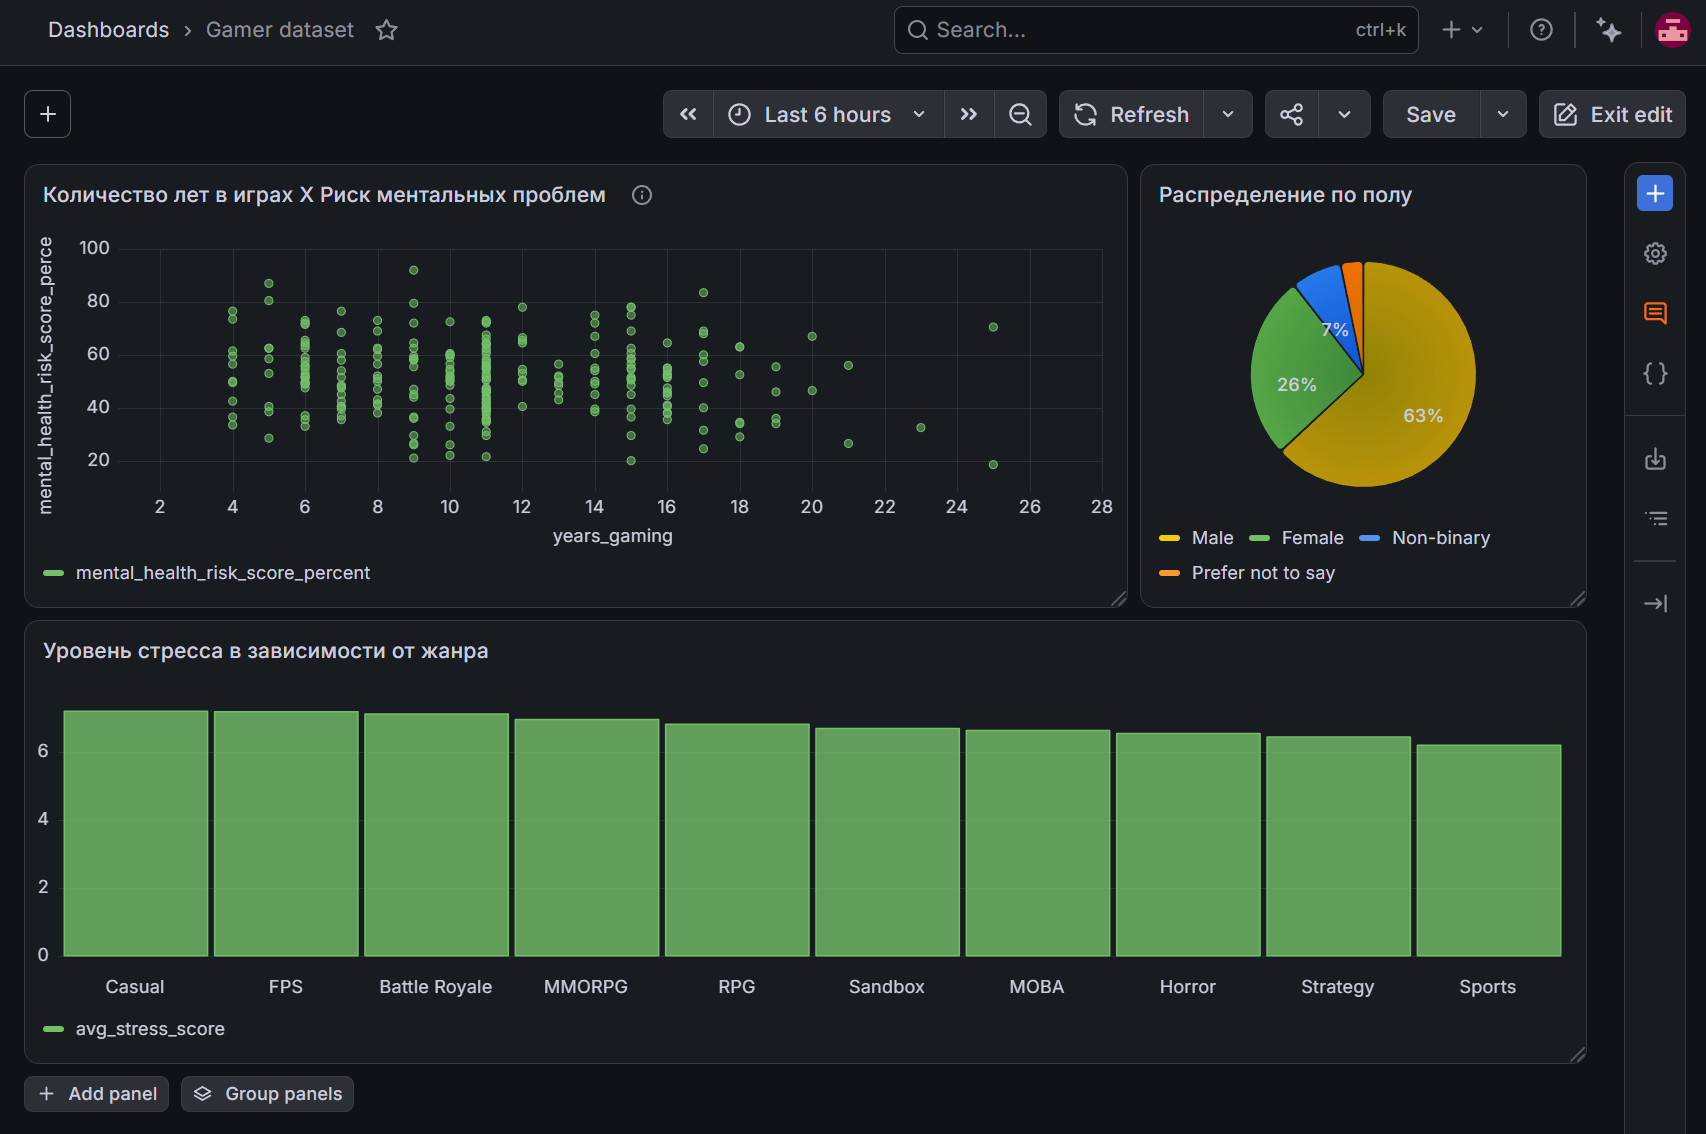
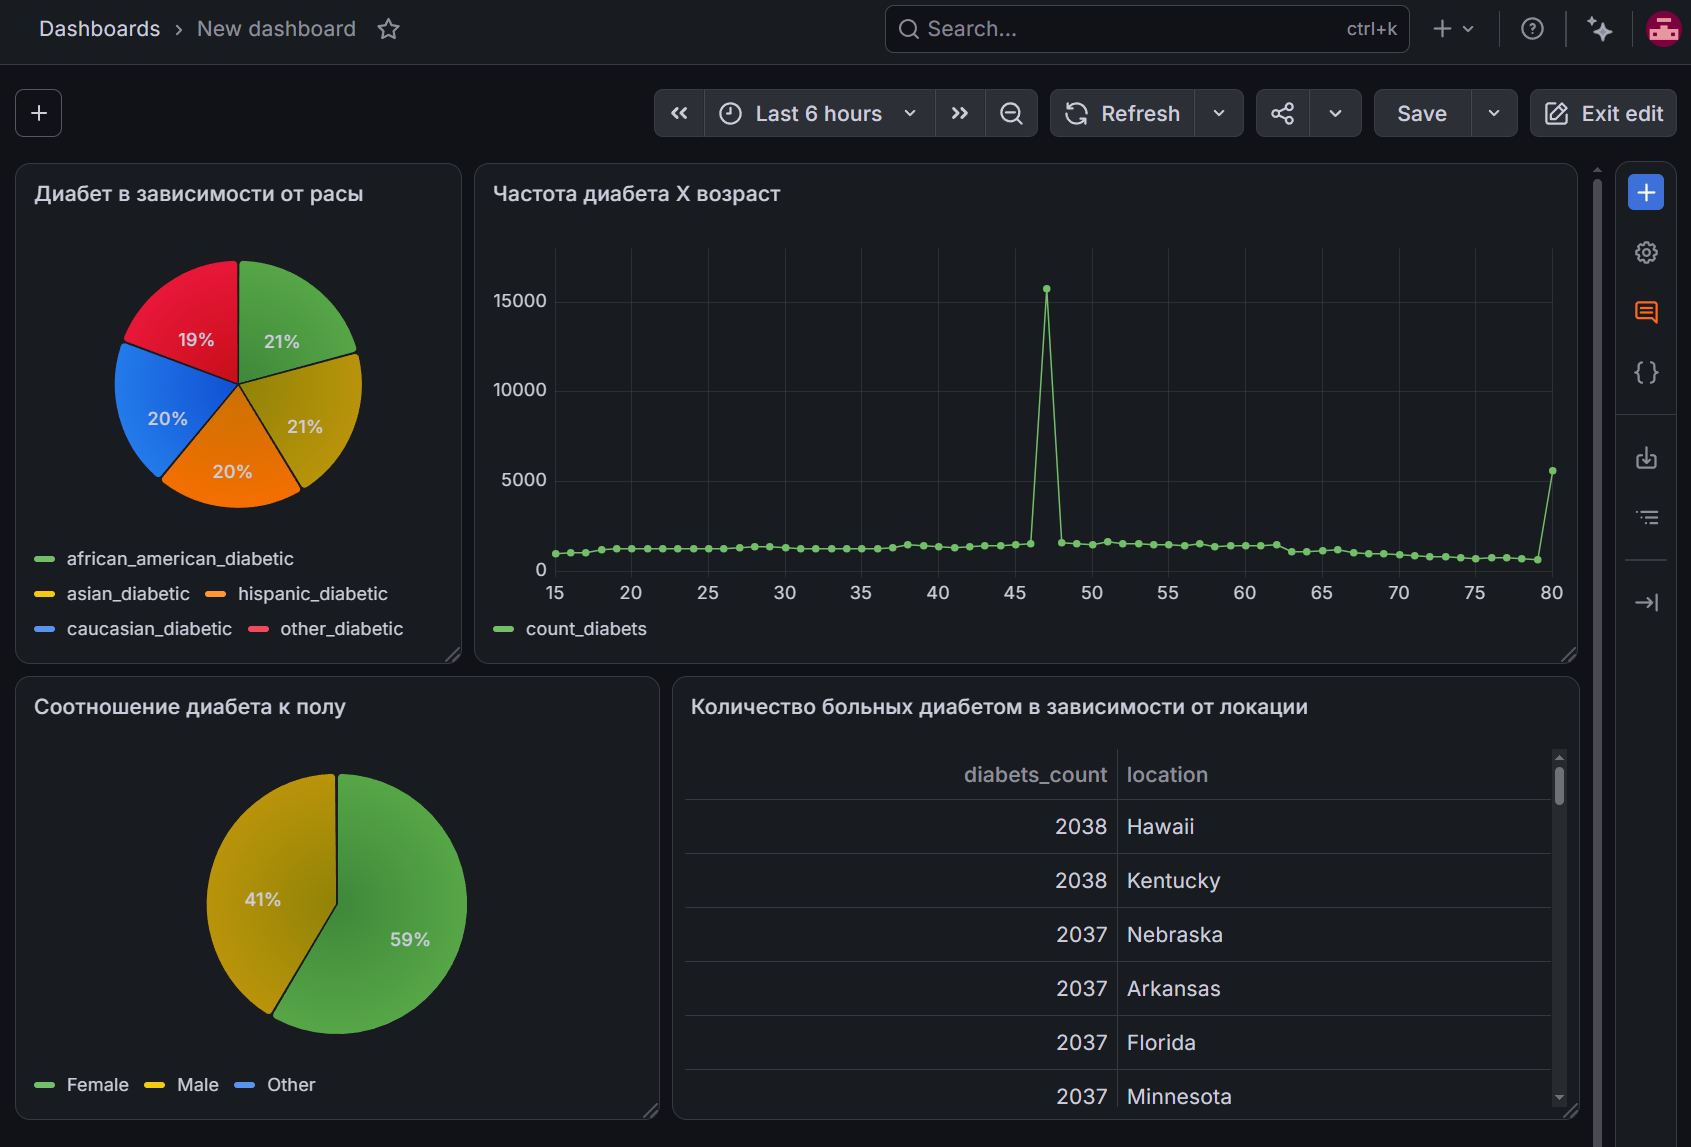
update data_processing, readme and added sql script

diff --git a/scr/data_processing/data_processing.py b/scr/data_processing/data_processing.py
@@ -1,11 +1,10 @@
-import datetime
 import os
 from minio import Minio, S3Error
 from dotenv import load_dotenv
 from pyspark.sql import SparkSession
-from pyspark.sql.functions import col, count, when, trim, current_date
-from pyspark.sql.types import IntegerType
+from pyspark.sql.functions import col, count, when, trim, current_date, to_date
 import pyspark.sql.functions as sf
+import re
 
 
 class ProcessingAndLoadingBySpark:
@@ -45,7 +44,7 @@ class ProcessingAndLoadingBySpark:
                     column_count = self.spark.sql(query)
                     column_count.show()
         except Exception as e:
-            print(f"ERROR: {e}")
+            print(f"ERROR data_preview: {e}")
 
     def download_file_from_minio(self):
         try:
@@ -56,7 +55,7 @@ class ProcessingAndLoadingBySpark:
                 secure=False
             )
             try:
-                # Для демонстрации
+                # Для демонстрации работы с MinIO
                 client.stat_object(self.bucket_name, self.file_name)
             except S3Error:
                 client.fput_object(self.bucket_name, self.file_name, f"./raw_csv/{self.file_name}")
@@ -67,61 +66,75 @@ class ProcessingAndLoadingBySpark:
                 file_path=f"./downloads/{self.file_name}"
             )
 
-            df = self.spark.read.csv(f"./downloads/{self.file_name}", header=True, inferSchema=True)
-
+            df = self.spark.read.csv(
+                f"./downloads/{self.file_name}",
+                header=True,
+                inferSchema=True,
+                quote='"',
+                escape='"',
+                multiLine=True
+            )
+            for old_name in df.columns:
+                new_name = re.sub(r"[^a-zA-Z0-9_]+", "_", old_name).strip("_")
+                if old_name != new_name:
+                    df = df.withColumnRenamed(old_name, new_name)
             return df
         except Exception as e:
-            print(f"ERROR: {e}")
+            print(f"ERROR download_file_from_minio: {e}")
 
     def check_values_from_df(self, df, numeric_col):
-        df.createOrReplaceTempView("TEMP_TABLE")
-        string_emissions = []
-        threshold_list_numeric = []
-        total_rows = df.count()
-        one_percent_threshold = total_rows * 0.01
+        try:
+            df.createOrReplaceTempView("TEMP_TABLE")
+            string_emissions = []
+            threshold_list_numeric = []
+            total_rows = df.count()
+            one_percent_threshold = total_rows * 0.01
 
-        for c in df.columns:
-            if c in numeric_col:
-                # тут находятся примерные пороги для числовых значений
-                query = f"SELECT PERCENTILE_CONT(0.5) WITHIN GROUP (ORDER BY {c}) FROM TEMP_TABLE;"
-                median_res = self.spark.sql(query).first()
-                median = median_res[0] if median_res and median_res[0] is not None else 0
+            for c in df.columns:
+                if c in numeric_col:
+                    # тут находятся примерные пороги для числовых значений
+                    query = f"SELECT PERCENTILE_CONT(0.5) WITHIN GROUP (ORDER BY TRY_CAST({c} AS DOUBLE)) FROM TEMP_TABLE;"
+                    median_res = self.spark.sql(query).first()
+                    median = median_res[0] if median_res and median_res[0] is not None else 0
 
-                threshold_list_numeric.append({
-                    "column_name": c,
-                    "threshold_max": median * 3,
-                    "threshold_min": median / 3
-                })
+                    threshold_list_numeric.append({
+                        "column_name": c,
+                        "threshold_max": median * 3,
+                        "threshold_min": median / 3
+                    })
 
-            else:
-                if "id" not in c.lower():
-                    query = f"""
-                            SELECT {c}, count(*) as count
-                            FROM TEMP_TABLE
-                            GROUP BY {c}
-                            ORDER BY count ASC;
-                            """
-                    column_count = self.spark.sql(query)
-                    first_row = column_count.first()
+                else:
+                    if "id" not in c.lower():
+                        query = f"""
+                                SELECT {c}, count(*) as count
+                                FROM TEMP_TABLE
+                                GROUP BY {c}
+                                ORDER BY count ASC;
+                                """
+                        column_count = self.spark.sql(query)
+                        first_row = column_count.first()
 
-                    if first_row:
-                        column_value, count_rows = first_row[0], first_row[1]
-                        # возможные выбросы строковых значений
-                        if count_rows < one_percent_threshold:
-                            string_emissions.append({
-                                "column_name": c,
-                                "column_value": column_value,
-                                "count": count_rows
-                            })
+                        if first_row:
+                            column_value, count_rows = first_row[0], first_row[1]
+                            # возможные выбросы строковых значений
+                            if count_rows < one_percent_threshold:
+                                string_emissions.append({
+                                    "column_name": c,
+                                    "column_value": column_value,
+                                    "count": count_rows
+                                })
 
-        return threshold_list_numeric, string_emissions
+            return threshold_list_numeric, string_emissions
+        except Exception as e:
+            print(f"ERROR check_values_from_df : {e}")
 
-    def clear_datest(self, df, numeric_col):
+    def clear_datest(self, df):
         try:
             print(f"Размер датасета до очистки: {df.count()}")
+            numeric_col = self.find_numeric(df)
             threshold_list_numeric, string_emissions = self.check_values_from_df(df, numeric_col)
             # string_emissions лучше анализировать и подгонять под конкретный датасет, пока не использую
-            date_col = [c for c, dtype in df.dtypes if dtype in ['date', 'timestamp']]
+            date_col = [c for c, dtype in df.dtypes if (dtype in ['date', 'timestamp']) or ('date' in c)]
             clear_df = df.dropDuplicates()
 
             for c in clear_df.columns:
@@ -130,14 +143,19 @@ class ProcessingAndLoadingBySpark:
                         ((th.get('threshold_min'), th.get('threshold_max')) for th in threshold_list_numeric
                          if th.get('column_name') == c), (None, None))
                     if threshold_min and threshold_max:
-                        clear_df = clear_df.withColumn(c, when(((col(c) <= threshold_min) | (col(c) >= threshold_max)),
-                                                               None).otherwise(col(c)))
+                        clear_df = clear_df.withColumn(c, when(
+                            ((col(c).try_cast('double') <= threshold_min) | (col(c).try_cast('double') >= threshold_max)),
+                            None).otherwise(col(c)))
                 elif c in date_col:
+                    current_types = dict(clear_df.dtypes)
+                    if current_types[c] == 'string':
+                        clear_df = clear_df.withColumn(c, to_date(col(c), "yyyy-MM-dd"))
+                    else:
+                        clear_df = clear_df.withColumn(c, col(c).cast("date"))
                     clear_df = clear_df.withColumn(c, when((col(c) > current_date()), None).otherwise(col(c)))
                 else:
                     clear_df = clear_df.withColumn(c, trim(col(c)))
-
-
+            clear_df.show()
             avg_row = clear_df.select([sf.avg(c).alias(c) for c in numeric_col]).first()
             avg_dict = avg_row.asDict() if avg_row else {}
             clear_df = clear_df.fillna(avg_dict)
@@ -146,19 +164,19 @@ class ProcessingAndLoadingBySpark:
 
             return clear_df
         except Exception as e:
-            print(f"ERROR: {e}")
+            print(f"ERROR clear_datest: {e}")
 
     def get_df_info(self, df):
         try:
             raw_df = df
             raw_df.show(3)
             raw_df.select(
-                [count(when((col(c).isNull() | (col(c).cast("string") == "")), c)).alias(c) for c in
+                [count(when((col(c).isNull() | (col(c).try_cast("string") == "")), c)).alias(c) for c in
                  raw_df.columns]).show()
             for name, dtype in raw_df.dtypes:
                 print(f"Колонка: {name} Тип: {dtype}")
         except Exception as e:
-            print(f"ERROR: {e}")
+            print(f"ERROR get_df_info: {e}")
 
     def upload_to_clickhouse(self, df):
         try:
@@ -166,34 +184,60 @@ class ProcessingAndLoadingBySpark:
             user = os.getenv('CLICKHOUSE_USER')
             password = ""
             driver = "com.clickhouse.jdbc.ClickHouseDriver"
-            table_name = self.file_name.lower().replace(".csv", "").replace("-", "_")
 
             # overwrite если надо перезаписать, append если батчами в одну таблицу дозаписать
+            # сортировку делать в соответствии с необходимыми данными для анализа
+            # название таблицы нужно менять в соответствии с БД
             df.write \
                 .format("jdbc") \
                 .option("driver", driver) \
                 .option("url", url) \
                 .option("user", user) \
                 .option("password", password) \
-                .option("dbtable", table_name) \
-                .mode("overwrite") \
+                .option("dbtable", "health_data") \
+                .option("batchsize", "5000") \
+                .mode("append") \
                 .save()
 
             print("Файл успешно загружен в ClickHouse")
         except Exception as e:
-            print(f"ERROR: {e}")
+            print(f"ERROR upload_to_clickhouse: {e}")
+
+    def find_numeric(self, df):
+        try:
+            numeric_col = []
+            number_regex = r"^-?[0-9]*\.?[0-9]+$"
+            for c, dtype in df.dtypes:
+                if not (c.lower() == 'id' or c.lower().endswith('_id')):
+                    if dtype in ['int', 'bigint', 'float', 'double']:
+                        numeric_col.append(c)
+                    if dtype == 'string':
+                        total = df.filter(col(c).isNotNull()).count()
+                        if total == 0:
+                            continue
+                        numeric_count = df.filter(col(c).isNotNull()
+                                                  & col(c).rlike(number_regex)).count()
+                        if total > 0 and (numeric_count / total) > 0.9:
+                            numeric_col.append(c)
+
+            return numeric_col
+        except Exception as e:
+            print(f"ERROR find_numeric: {e}")
 
     def run_pipeline(self):
         try:
             df = self.download_file_from_minio()
-            numeric_col = [c for c, dtype in df.dtypes if dtype in ['int', 'bigint', 'float', 'double']]
             # self.data_preview(df)
             # self.get_df_info(df)
-            clear_df = self.clear_datest(df, numeric_col)
+            clear_df = self.clear_datest(df)
             self.upload_to_clickhouse(clear_df)
         except Exception as e:
-            print(f"ERROR: {e}")
+            print(f"ERROR run_pipeline: {e}")
 
 
-processing_and_loading_by_spark = ProcessingAndLoadingBySpark("gaming_addiction.csv")
-processing_and_loading_by_spark.run_pipeline()
+directory_path = "./raw_csv"
+for filename in os.listdir(directory_path):
+    if filename.endswith(".csv"):
+        print(f"Запуск обработки файла: {filename}")
+        processing_and_loading_by_spark = ProcessingAndLoadingBySpark(filename)
+        processing_and_loading_by_spark.run_pipeline()

diff --git a/README.md b/README.md
@@ -32,21 +32,27 @@
 
 ![Аналитический дашборд](./scr/data_processing/assets/grafana_dashboard.png)
 
-*Ссылка на датасет: https://www.kaggle.com/datasets/dreamtensor/gaming-addiction-and-mental-health-analysis*
+*Ссылка на датасет: https://www.kaggle.com/datasets/priyamchoksi/100000-diabetes-clinical-dataset*
 
 ---
 
 ## Как запустить проект локально
 
 ### 1. Подготовка окружения
-Клонируйте репозиторий и поднимите инфраструктуру в Docker:
+- Клонируйте репозиторий и поднимите инфраструктуру в Docker:
 ```bash
 git clone [https://github.com/Waysyy/ETL_process.git](https://github.com/Waysyy/ETL_process.git)
 cd ETL_process
 docker-compose up -d
 ```
-Скачайте любой датасет в формате *.csv* и загрузите его в MinIO или папку *raw_csv* в корне проекта.
+- Скачайте любой датасет в формате *.csv* и загрузите его в MinIO или папку *raw_csv* в корне проекта.
 
+- Создайте необходимую таблицу в ClickHouse (скрипт для создания таблицы из примера находится в *scr\SQL_scripts*)
+
+- Перед запуском установите необходимое название базы данных
+```Python
+.option("dbtable", "название") \
+```
 ### 2. Запуск
 Для выполнения пайплана запустите файл *data_processing.py*
 